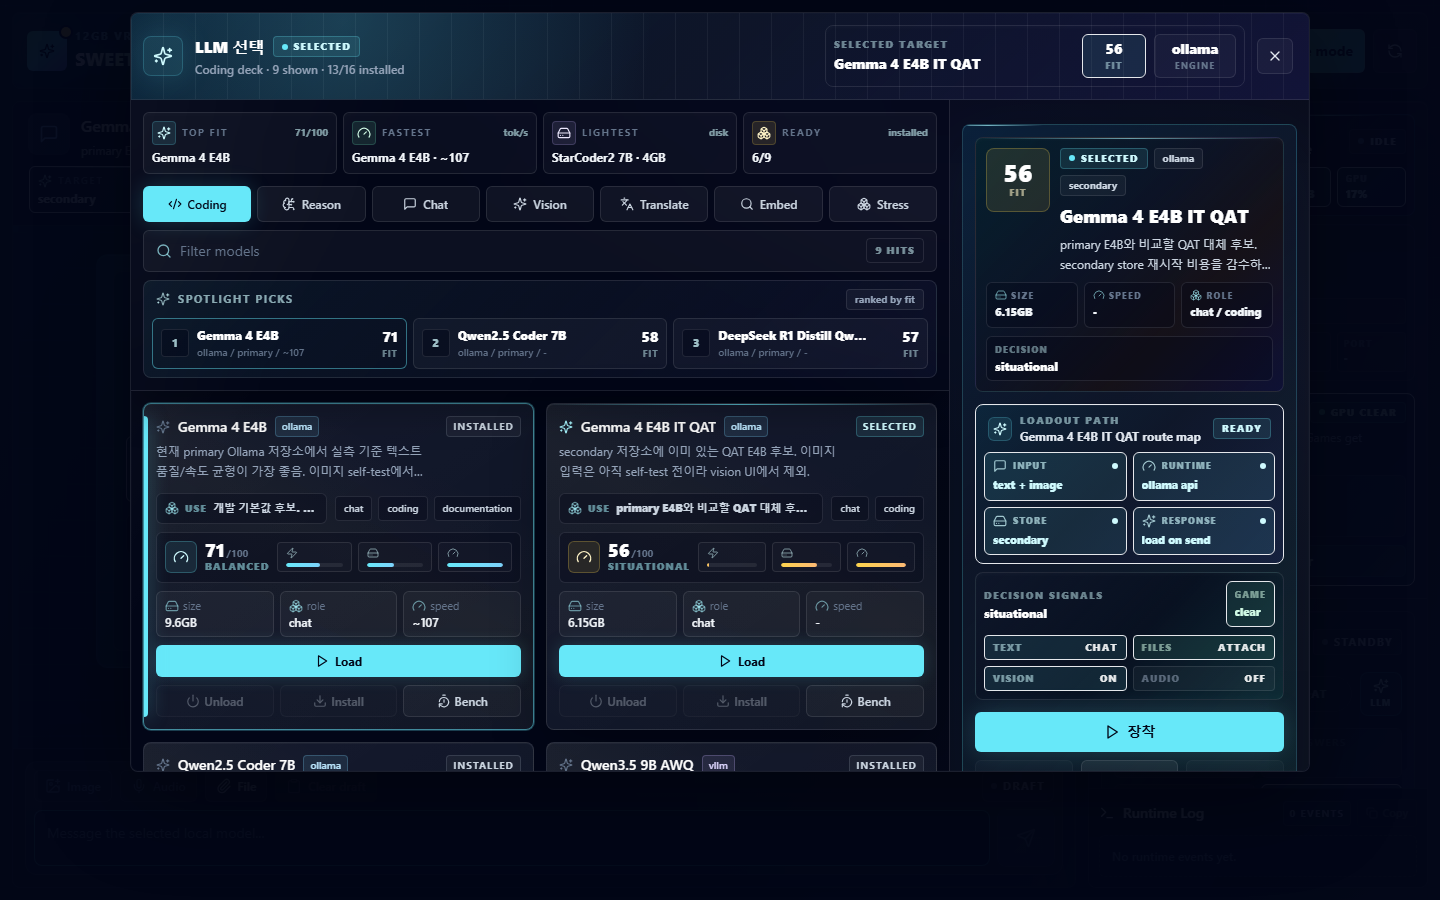
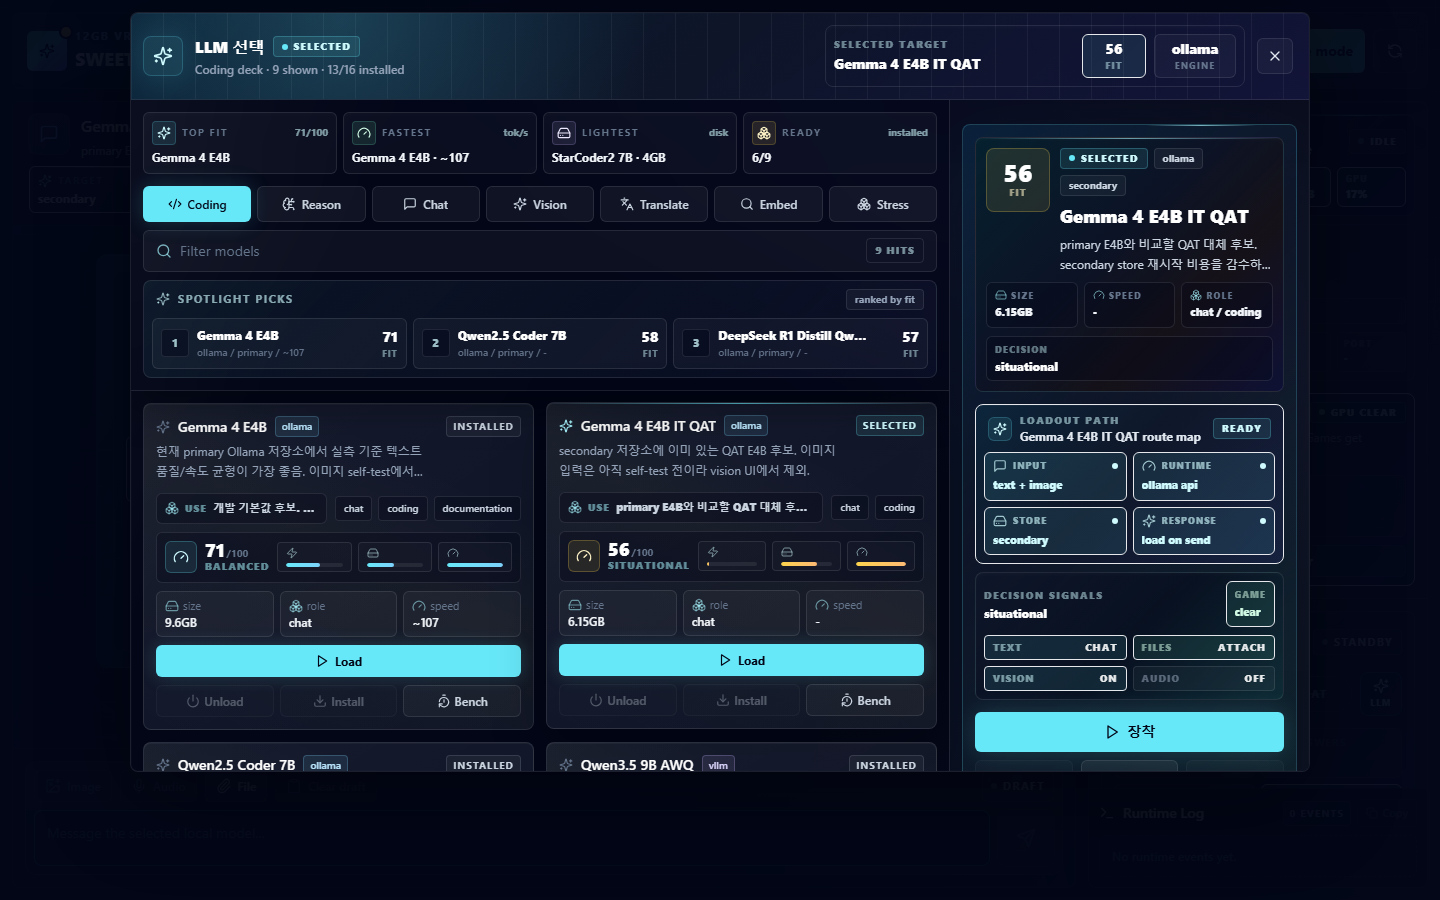
Add SWEET12 stage runway polish

diff --git a/apps/web/src/styles.css b/apps/web/src/styles.css
@@ -173,6 +173,24 @@ textarea {
   animation: panel-scan 22s linear infinite;
 }
 
+.stage-runway::after {
+  position: absolute;
+  inset: 46% 0 0;
+  pointer-events: none;
+  content: "";
+  background:
+    linear-gradient(90deg, transparent 0%, rgba(103, 232, 249, 0.12) 28%, rgba(252, 211, 77, 0.055) 48%, rgba(167, 139, 250, 0.12) 72%, transparent 100%),
+    repeating-linear-gradient(90deg, transparent 0 38px, rgba(148, 163, 184, 0.08) 39px, transparent 40px),
+    linear-gradient(180deg, transparent 0%, rgba(15, 23, 42, 0.22) 42%, rgba(2, 6, 23, 0.52) 100%);
+  opacity: 0.52;
+  mask-image: linear-gradient(180deg, transparent, rgba(0, 0, 0, 0.82) 28%, rgba(0, 0, 0, 0.28) 100%);
+}
+
+.stage-runway > * {
+  position: relative;
+  z-index: 1;
+}
+
 .control-grid-theme-coding {
   background:
     linear-gradient(135deg, rgba(6, 78, 59, 0.16), rgba(6, 78, 59, 0) 36%),

diff --git a/apps/web/src/components/ChatPanel.tsx b/apps/web/src/components/ChatPanel.tsx
@@ -517,7 +517,7 @@ export function ChatPanel({
         </div>
       )}
 
-      <div ref={scrollRef} onScroll={updateStickToBottom} className={cn("control-grid relative min-h-0 flex-1 space-y-3 overflow-y-auto p-4", `control-grid-theme-${role}`)}>
+      <div ref={scrollRef} onScroll={updateStickToBottom} className={cn("stage-runway control-grid relative min-h-0 flex-1 space-y-3 overflow-y-auto p-4", `control-grid-theme-${role}`)}>
         {showRuntimeHud && <RuntimeHandoff runtime={runtime} selectedModel={selectedModel} />}
         {messages.length === 0 && (
           <ModelLaunchStage